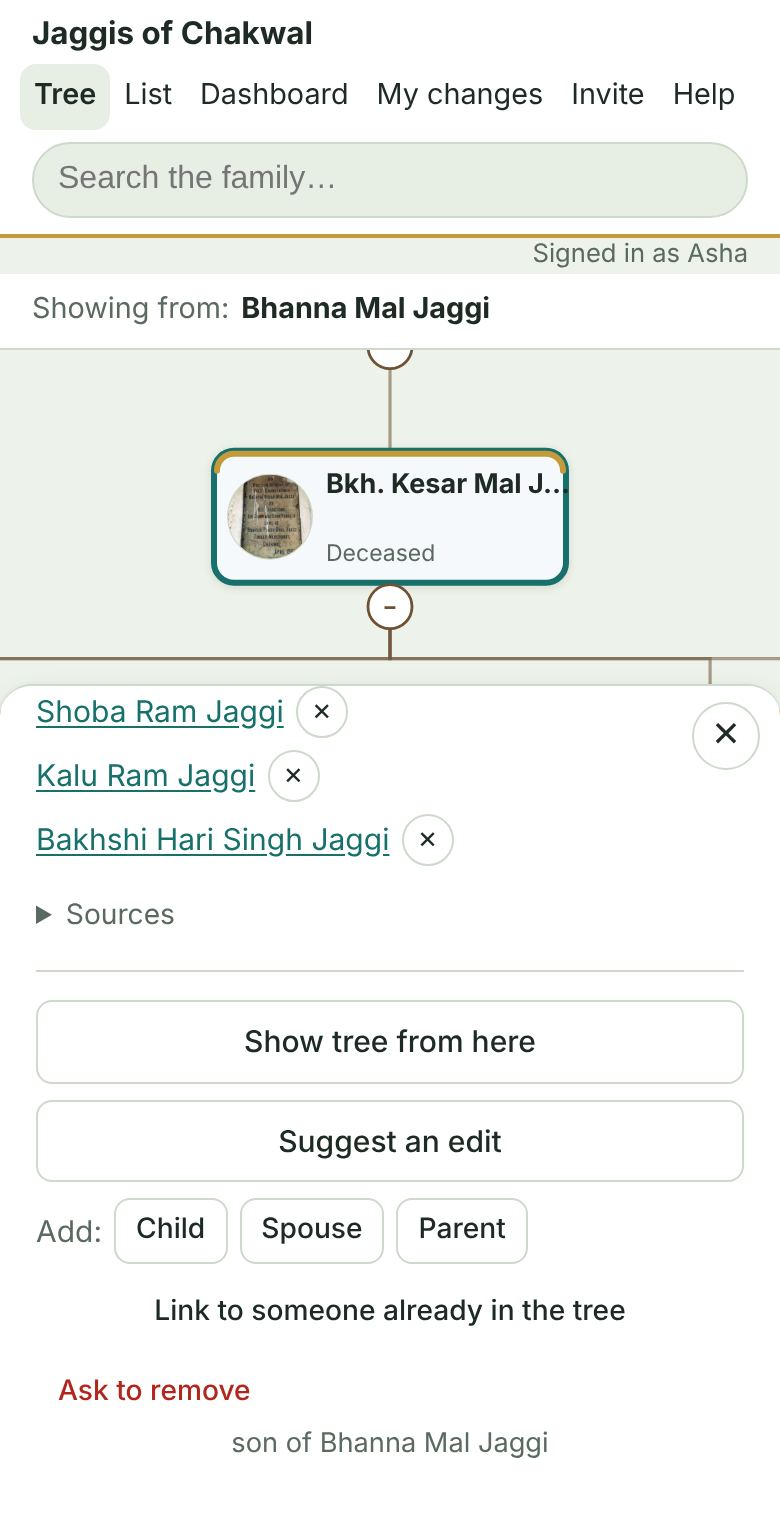
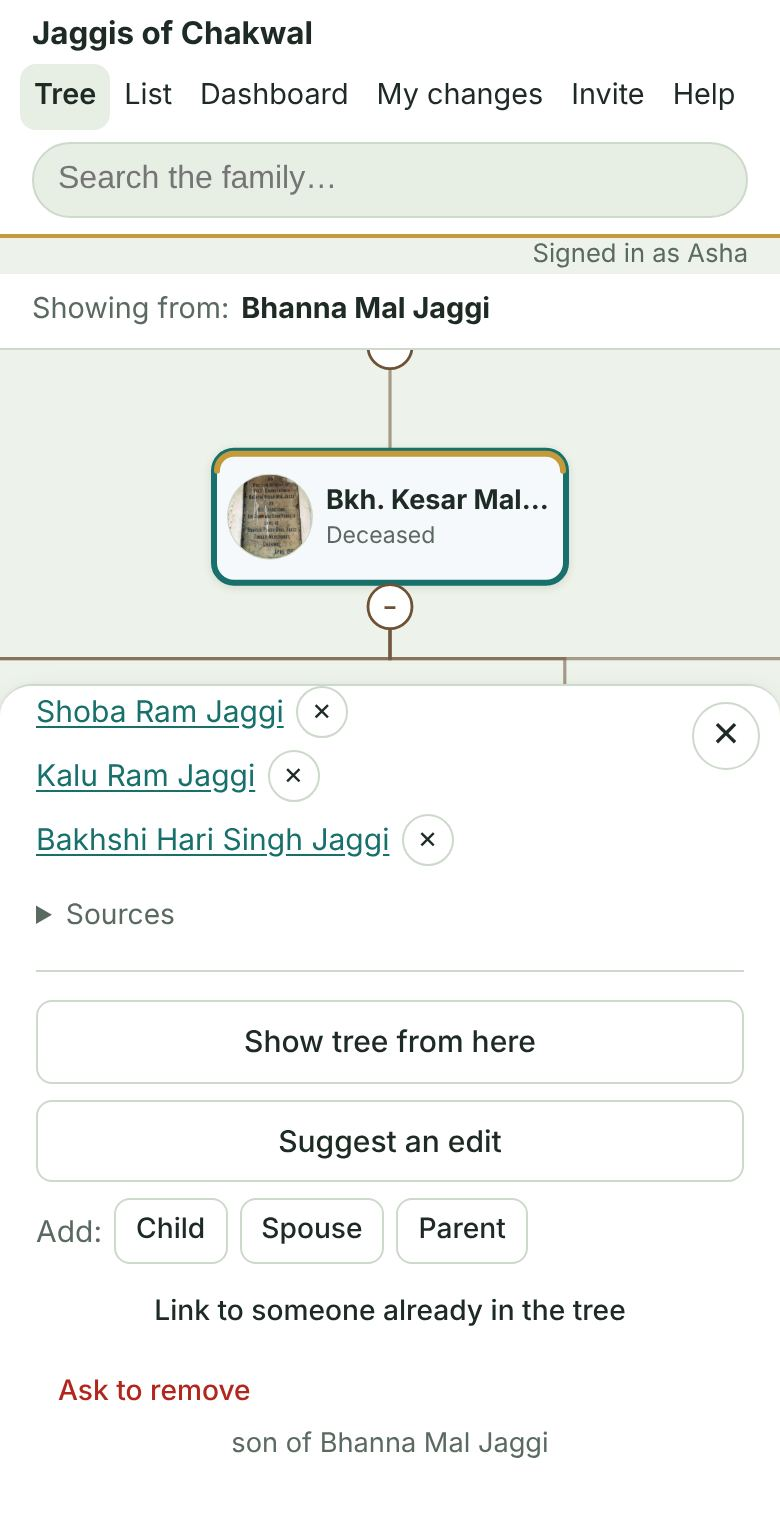
Tree: spouses shown in their own smaller box by default
Claude-Session: https://claude.ai/code/session_01JLtp1VAE6cD4aaLHUpnewB

Changed region(s): [[0.4, 0.3092, 0.7077, 0.3711], [0.8923, 0.4329, 0.9231, 0.4638], [0.7077, 0.4329, 0.7385, 0.4638]]

diff --git a/site/help.html b/site/help.html
@@ -87,6 +87,7 @@
       <li><strong>Move around:</strong> drag with your finger or mouse. Pinch, or use the <span class="ui">+</span> and <span class="ui">−</span> buttons, to zoom.</li>
       <li><strong>Open a family:</strong> the small round button under a person shows how many children they have. Tap it to show or hide them.</li>
       <li><strong>See a person's details:</strong> tap their card. Their parents, spouse, children and siblings are listed, and you can tap any of them.</li>
+      <li><strong>Husbands and wives:</strong> someone who married into the family has their own smaller box with a dashed edge, joined to their partner by two gold rings. Their children hang from the rings. Tap the box to see or add their details and photo.</li>
       <li><strong>Find someone:</strong> type a name in <span class="ui">Search the family</span>. Different spellings, like Parkash and Prakash, still find them.</li>
       <li><strong>Start the tree from one person:</strong> open their details and tap <span class="ui">Show tree from here</span>. The line at the top shows their ancestors; tap any name there to go back up, or <span class="ui">Whole tree</span>.</li>
       <li><strong>List view:</strong> tap <span class="ui">List</span> at the top for a simple indented list, which is easier to read on a small phone.</li>

diff --git a/site/js/tree.js b/site/js/tree.js
@@ -17,14 +17,14 @@ const JOIN = 30; // gap between a person and their spouse's card
 // them, or as a smaller card beside them. For trying them out, add
 // ?spouses=side, ?spouses=mini or ?spouses=inside to the address (remembered
 // in this browser).
-const SPOUSE = { inside: null, side: { w: W, h: H, r: 21 }, mini: { w: 140, h: 56, r: 17 } };
+const SPOUSE = { inside: null, side: { w: W, h: H, r: 21 }, mini: { w: 156, h: 56, r: 17 } };
 export function spouseMode() {
   let m = new URLSearchParams(location.search).get('spouses') || new URLSearchParams(location.hash.split('?')[1] || '').get('spouses');
   try {
     if (m && m in SPOUSE) localStorage.setItem('spouses', m);
     else m = localStorage.getItem('spouses');
   } catch { /* storage blocked */ }
-  return m in SPOUSE ? m : 'inside';
+  return m in SPOUSE ? m : 'mini';
 }
 
 export class TreeView {
